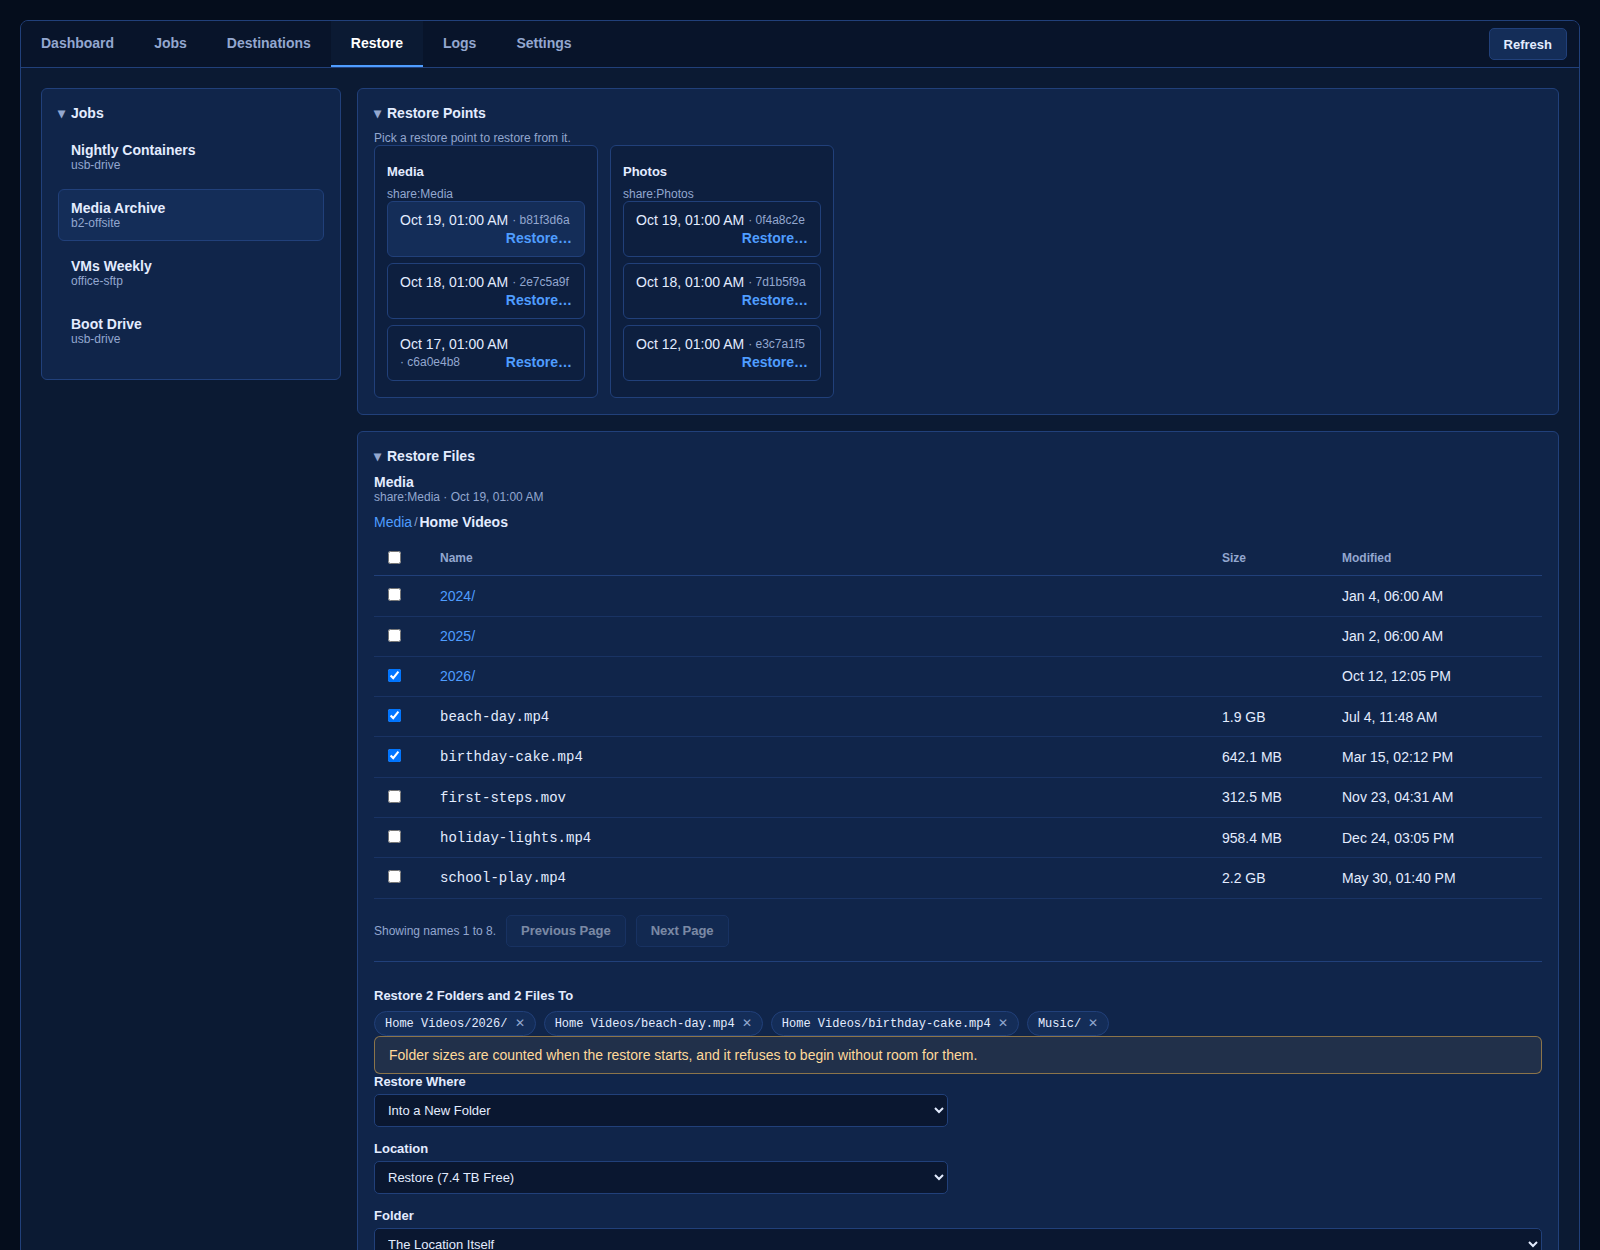
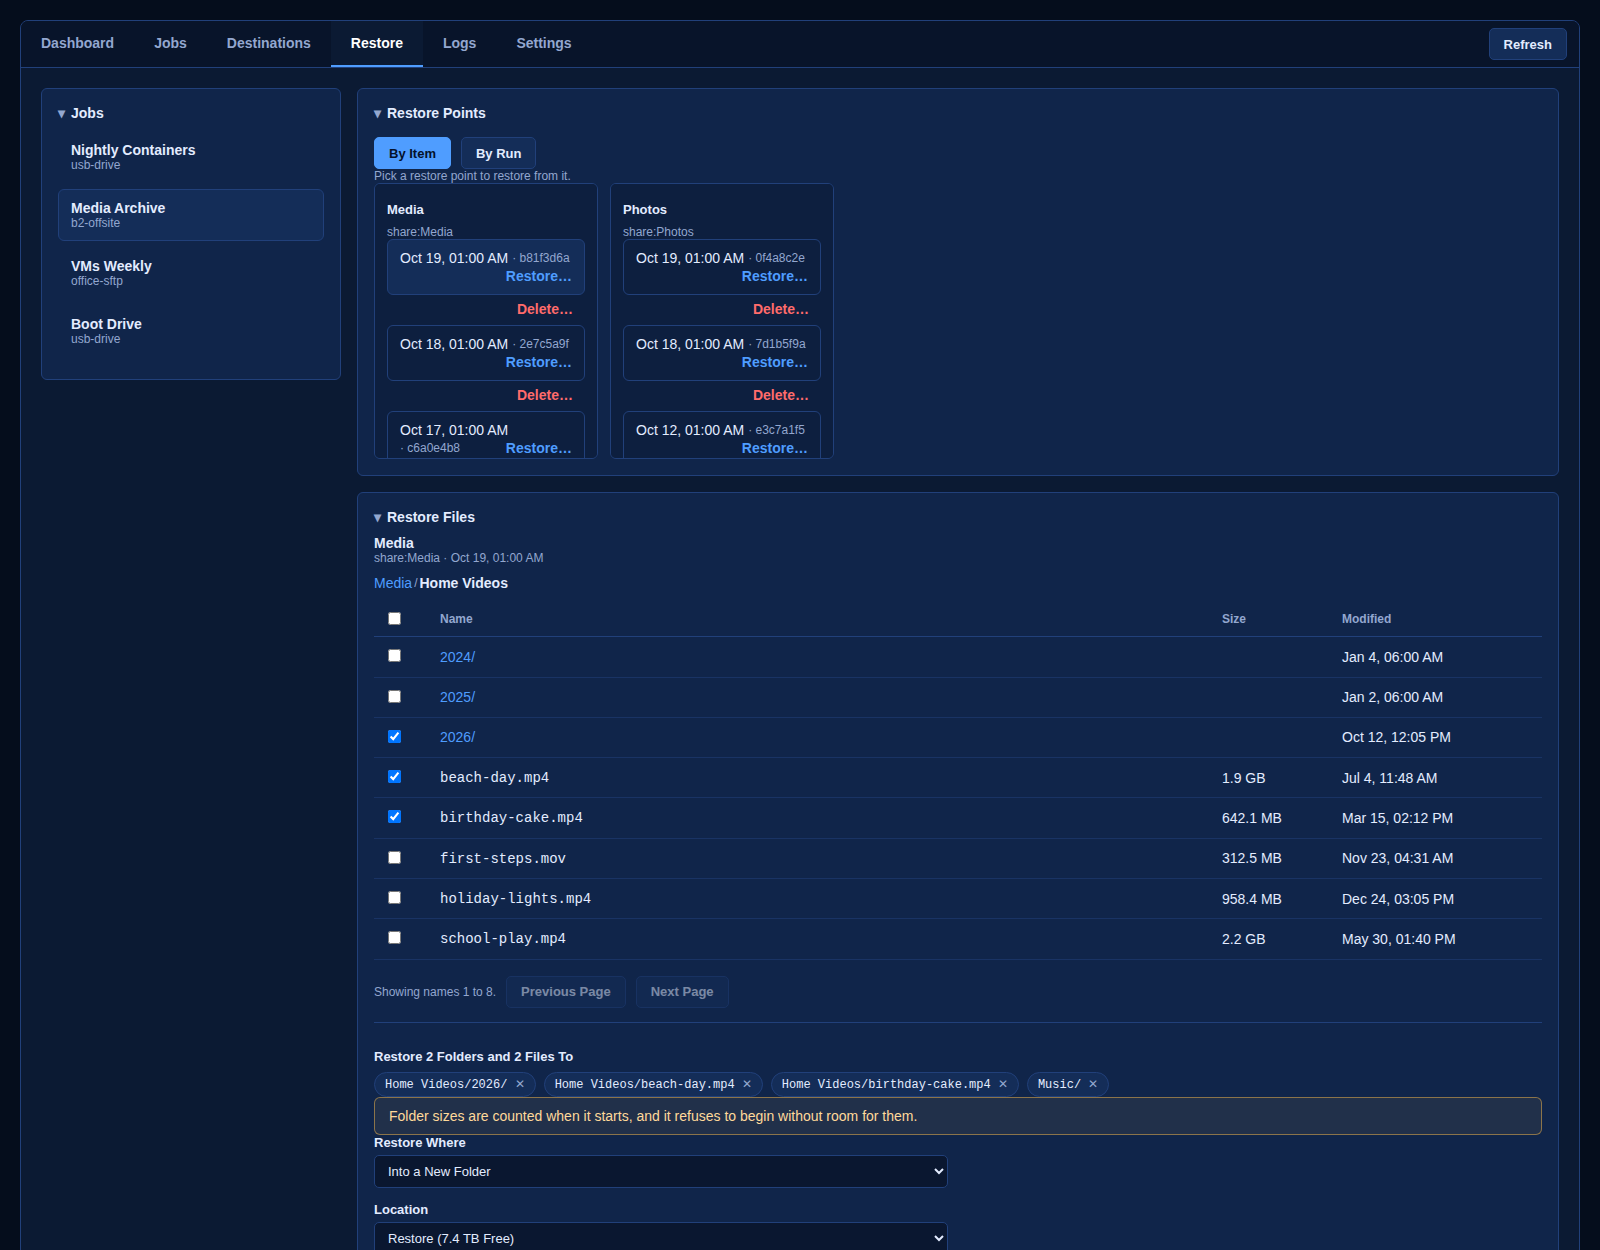
docs: Stage Disk, the boot drive file picker, whole-run restore and deleting backups, with new screenshots

diff --git a/README.md b/README.md
@@ -1,7 +1,7 @@
 # urbk
 
 Backup and restore for an Unraid server: its Docker containers, compose
-stacks, VMs, flash drive and user shares. urbk finds what the server runs,
+stacks, VMs, boot drive and user shares. urbk finds what the server runs,
 backs it up consistently into an encrypted, deduplicated
 [restic](https://restic.net) repository, checks that the backups restore, and
 puts things back when a container, a VM, a share or the whole server needs
@@ -21,11 +21,11 @@ available to install.
 |------|-----------|-------------|
 | Docker container (Unraid template) | template XML, its appdata and other in-scope mounts, named volumes, image reference and digest | the container recreated from its template, data back in place |
 | Compose stack (compose.manager) | project folder, `.env`, override, mounts and volumes of its containers, each service's image digest | the stack back in place, brought up on the recorded images |
-| VM (libvirt) | domain XML, NVRAM (UEFI), TPM state (swtpm), every file or zvol disk | the VM defined again with its disks, NVRAM and TPM state |
-| Flash | `/boot`, except the Unraid release files and urbk's own secrets | files restored into a folder for you to apply |
+| VM (libvirt) | domain XML, NVRAM (UEFI), TPM state (swtpm), every file or zvol disk | the VM defined again with its disks, NVRAM and TPM state, or one of its disks staged as an image beside it, the VM left untouched |
+| Boot drive | `/boot`, except the Unraid release files and urbk's own secrets | the whole boot drive, or only the files and folders you pick, staged into a folder for you to copy back |
 | User share, or a folder of one | its files on every disk and pool that holds them, with excludes you choose | the chosen files and folders, into a new folder of their own or over the live share after a preview you confirm |
 
-A job holds either server items (containers, stacks, VMs, flash) or share
+A job holds either server items (containers, stacks, VMs, the boot drive) or share
 items, never both, so a long share backup never holds up the backups of the
 server itself.
 
@@ -68,8 +68,16 @@ flowchart LR
 - **Restores stage first.** A restore writes beside the live copy and swaps it
   in, keeping the previous copy; if the swap fails, it rolls back. A share
   restore writes into a new folder of its own, or over the live share only
-  after a preview of what it writes over that you confirm, and the flash only
-  ever into a folder.
+  after a preview of what it writes over that you confirm. The boot drive, and
+  a single VM disk, are only ever staged into a folder; the live ones are never
+  written.
+- **Restore one item or a whole run.** Pick an item and one of its backups, or
+  pick a backup run and tick several of its containers, stacks and VMs to
+  restore them one after another, stopping at the first that fails.
+- **Delete what you no longer need.** Delete one backup, several from the same
+  run, or a job together with all its backups. Deleting an item's only backup
+  asks you to type its name, and the space comes back at once or at the
+  destination's next scheduled prune, your choice.
 - **Long backups share the server.** A first backup of a big share can take
   days. It runs in steps, each saved as a snapshot as it finishes, and gives
   urbk's lock up between steps so the server's own backups still run; the
@@ -82,7 +90,7 @@ flowchart LR
   and no host devices, then removes it.
 - **Stopping the array is safe.** urbk stops its runs and releases every disk
   before Unraid unmounts them, and starts nothing until the array is back.
-- **Secrets stay off the command line.** Passwords and keys live on the flash
+- **Secrets stay off the command line.** Passwords and keys live on the boot
   drive, readable by root only, and reach restic through files. A location's
   credentials are scrubbed from urbk's errors, notifications and records.
 - **Everything from the shell too.** Every action in the GUI is a `urbk`
@@ -102,12 +110,22 @@ The screenshots show invented jobs, shares and servers, not a real one.
 | ![Jobs, server items](docs/images/gui-jobs.png) | ![Jobs, shares and folders](docs/images/gui-jobs-shares.png) |
 | Containers, stacks, VMs and the boot drive, with schedule, keep rules and verify schedule | Shares and folders inside them, each with what is left out |
 
-| Destinations | Restore |
+| Destinations | Settings |
 |:---:|:---:|
-| ![Destinations](docs/images/gui-destinations.png) | ![Restore](docs/images/gui-restore.png) |
-| Where backups go, their limits, checks and recovery sheets | Pick a backup, browse a share's files, and restore |
+| ![Destinations](docs/images/gui-destinations.png) | ![Settings](docs/images/gui-settings.png) |
+| Where backups go, their limits, checks and recovery sheets | This server's ID and folders, and the tools urbk uses |
 
-| Settings |
-|:---:|
-| ![Settings](docs/images/gui-settings.png) |
-| This server's ID and folders, and the tools urbk uses |
+| Restore | Restore a Whole Run |
+|:---:|:---:|
+| ![Restore](docs/images/gui-restore.png) | ![Restore a whole run](docs/images/gui-restore-batch.png) |
+| Pick an item and a backup, browse a share's files, and restore | Tick several items of one backup run and restore them together |
+
+| Boot Drive Files | Stage a VM Disk |
+|:---:|:---:|
+| ![Boot drive files](docs/images/gui-restore-flash-files.png) | ![Stage a VM disk](docs/images/gui-restore-stage-disk.png) |
+| Browse a boot drive backup and stage only the files you pick | Stage one disk of a VM as an image, on a pool, a drive or an array disk |
+
+| Delete a Backup | Delete a Job and Its Backups |
+|:---:|:---:|
+| ![Delete a backup](docs/images/gui-restore-delete.png) | ![Delete a job and its backups](docs/images/gui-jobs-delete.png) |
+| Every backup has its own red Delete beside its Restore | See what would be deleted before anything is |
